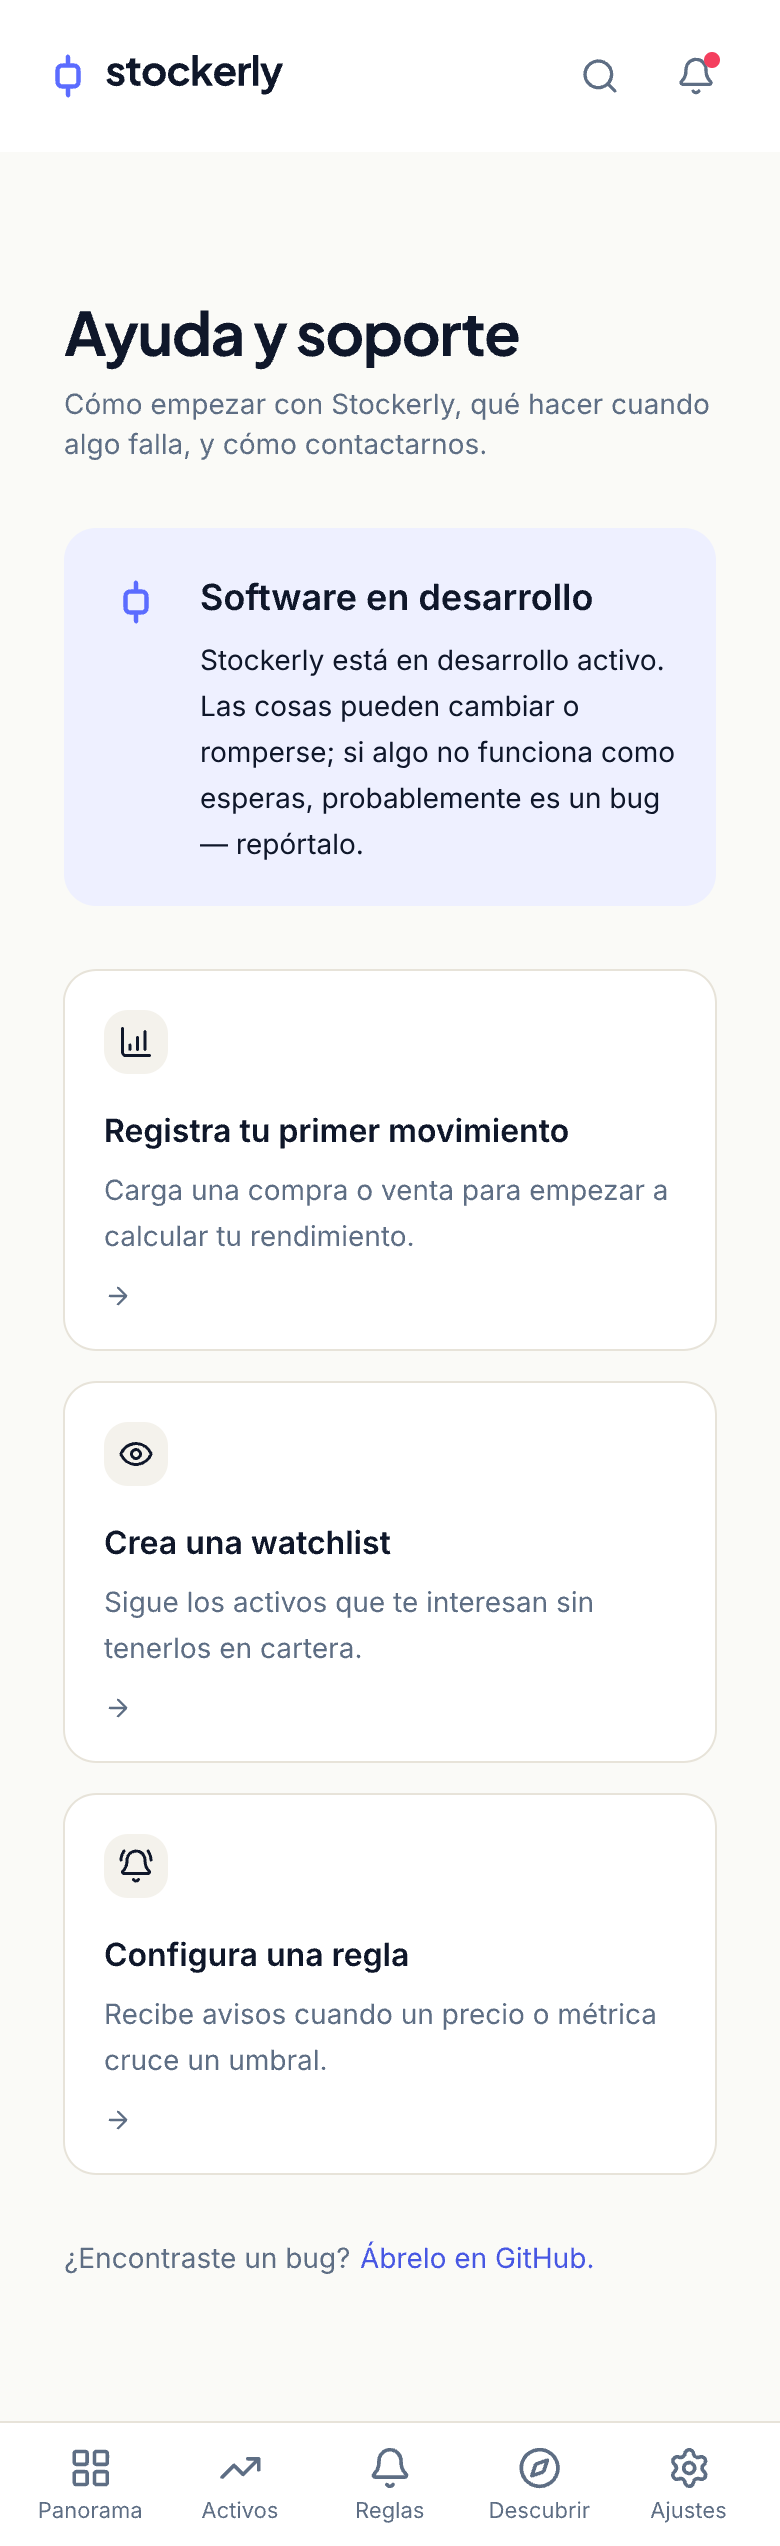
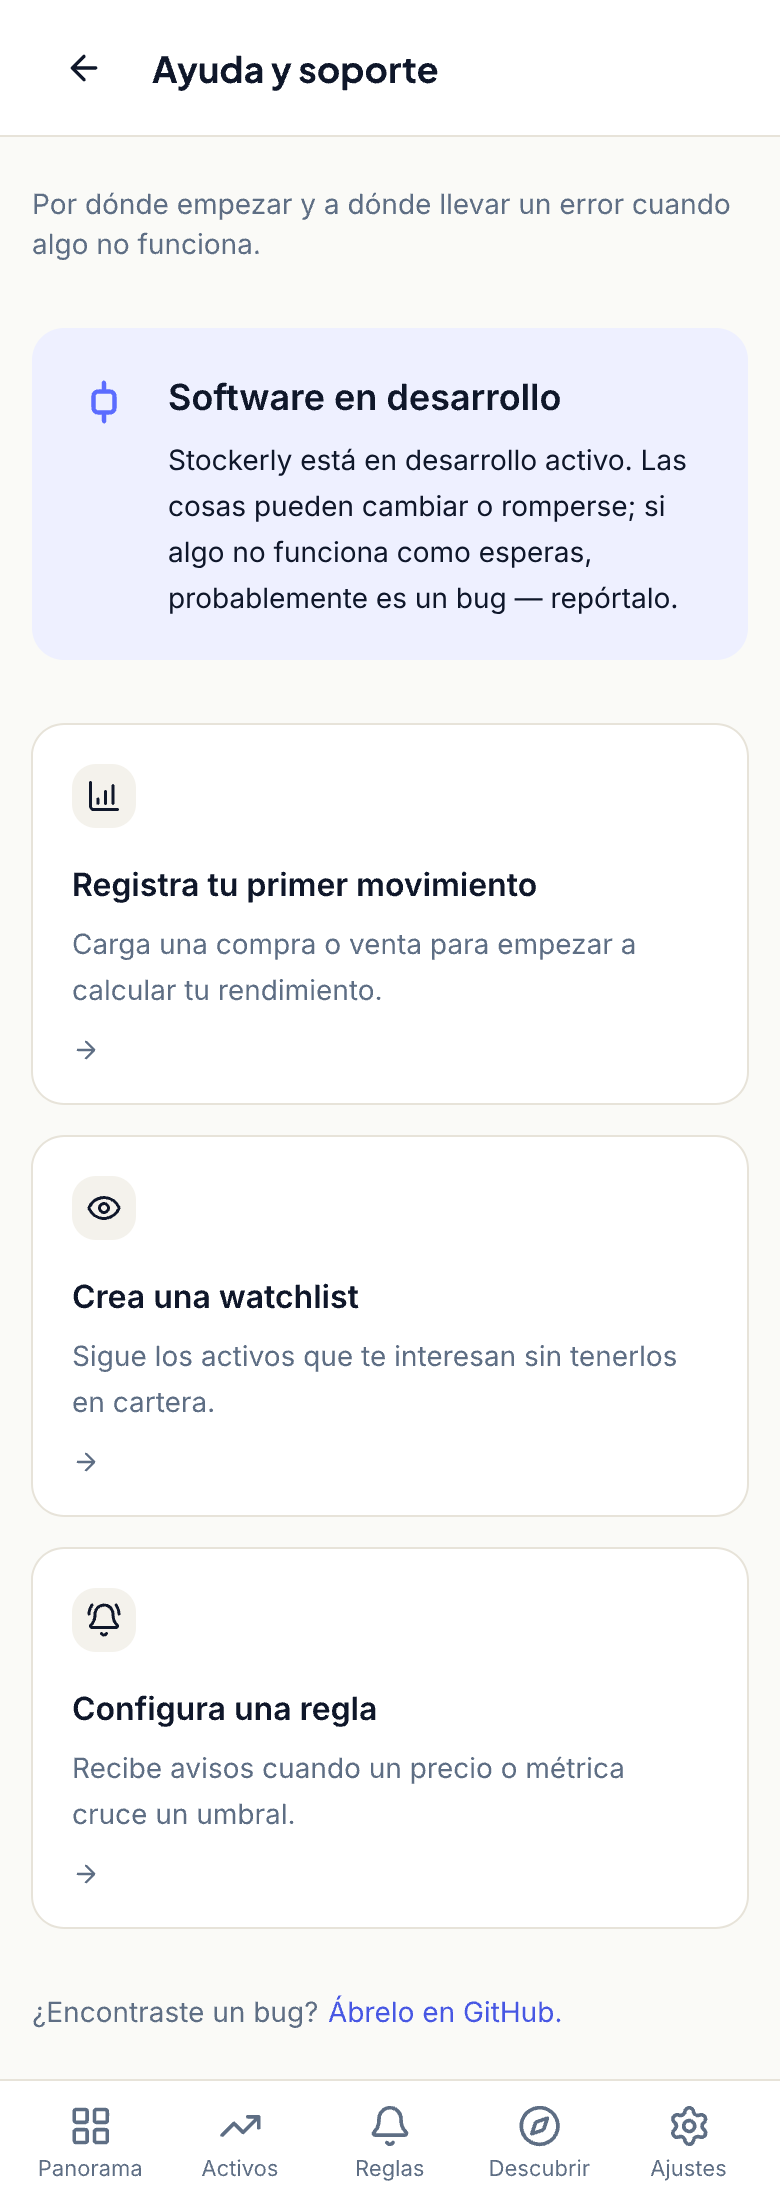
design(settings): draw Ayuda as a hub page reached from the hub (D161)

diff --git a/design/DECISIONS.md b/design/DECISIONS.md
@@ -210,7 +210,7 @@ reverses opens with `⤷` and the number that replaced it.
 | **D158** | Whether the VIX returns as an equity-sentiment card, which D38 left open on condition of its own 4-filter case (realign phase C, board draft *[feat] A market-stability gauge*) | **Proposed — awaiting Adrian: a card named *Volatilidad · EE. UU. (VIX)*, never under a Fear & Greed label.** The trigger D38 found missing now exists in his words (J6: *¿el mercado está estable?*). It is labelled for what it is: the market's own 30-day estimate for the S&P 500, with conventional bands (calma <15, normal 15–25, elevada 25–35, alta ≥35) stated in its `?`, a reading date, and the line that it says nothing about the IPC (D38's objection that half the portfolio is MXN). Absent, not calm, when the reading is older than four days (ADR-0023). It reads the `MarketIndex` VIX row the job already syncs every 10 minutes: no gateway, no table. Not on Hoy, which stays at three items; it sits with the sentiment cards. **Rejected: reusing the Fear & Greed card shape under the old title** (D38's lie) · **Putting it on Hoy** (a daily number invites reacting to it). **Cost if wrong:** one card and one query to delete. |
 | **D159** | What the asset detail puts before the chart now that the realign gave the owner a plan, dates and a position of their own (board request, 2026-10-21; D114 composed the screen, never decided *lo tuyo* against the chart) | **A · A `LO TUYO` card before the chart** · B · One strip, the chart stays the focal point | ✅ **Adrian's call, 2026-10-21: A.** One card under the price and **above the tabs**, the same for the holder and the watcher: *Tu posición* with its gain, *Pesa X% de tu patrimonio*, *Tu costo*, *Tu umbral* and the rules, *Resultados · fecha*. It absorbs `VS. TU PLAN` (D67's anchors, now first) and only draws the rows that exist; with none, no card. Drawn as `Asset · Análisis / Lo tuyo (D159)`, a copy of the real artboard. **Two defects the review found travel with it:** the *Lectura* verdict wore warning/green borders for overbought/oversold, and the analyst-target difference was green or red, both reading as buy/sell cues against R1 — they go neutral, and the target gains *Consenso publicado por <fuente> · <fecha>*. **Rejected B (a one-line strip):** it tested whether the chart can stay first (D114's focal point) with mine as a footnote; it lost on criterion 1, because at 390 px cost, gain, threshold and date do not fit one line. **What would bring it back:** Adrian says the chart is what he reads first, or a measured fold shows the chart cut by the card. **Not decided here:** where the action buttons live (still the foot), and the `Mi posición` and `CETES` artboards, which do not yet draw the card. **Cost if wrong:** one partial moves back. |
 | **D160** | How Hoy shows an earnings season, when five held companies report within two weeks and each took a row of the three (production mirror review, 2026-10-21) | **B · One row per day, the symbols joined** · A · One row per company, as before | 🟡 **Proposed; Adrian picked B in chat, 2026-10-21.** `NVDA, TSLA y META reportan resultados` · `En 2 días · jueves 22 OCT`: the unit Hoy counts is a *moment*, not a row, so a season no longer pushes CETES and the plan off the list. The title wraps like any other. Drawn as `Hoy / Temporada de resultados`, a copy of `Hoy / Default`. **Not in this entry:** merging a central-bank decision into the same day's row (it keeps its own row), and the report time of day, which no provider gives us. **Rejected A:** it tested whether each company deserves its own line; it lost because three of three slots went to one season. **What would bring it back:** a single report big enough in the patrimonio to want its own line. **Cost if wrong:** one helper. |
-| **D161** | Whether `/help` gets an artboard after all, superseding D92 (mirror audit, 2026-10-21) | **A · Draw it as shipped** · B · Keep D92's brief note | ✅ **A — Adrian asked in chat, 2026-10-21, to draw every screen that ships with no artboard, as the code renders it today.** Drawn in `settings.pen`'s `Ayuda` band. **Open, not decided here:** nothing in the app links to `help_path`, its subtitle promises content the page lacks, and it renders two `<h1>`s — wire it or retire it, then amend the artboard. |
+| **D161** | Whether `/help` gets an artboard after all, superseding D92 (mirror audit, 2026-10-21) | **A · Draw it as shipped** · B · Keep D92's brief note | ✅ **A — Adrian asked in chat, 2026-10-21, to draw every screen that ships with no artboard, as the code renders it today.** Drawn in `settings.pen`'s `Ayuda` band. **Wired, not retired (#858):** its only link died with the public footer (b859b069), so it is back as an *Ayuda* row in the Ajustes hub, rendered as a hub sub-page — one heading, a subtitle that matches the content. The artboards mirror that. |
 | **D162** | Where the owner runs a clean-up that used to need a terminal (`rake data:resolve_bmv_symbols`), and which ones (2026-10-22) | **A · A `Mantenimiento` section on Estado y mantenimiento, right after `Sincronización manual`** · B · Run them silently on every deploy · C · Document the rake tasks only | 🟡 **Proposed; Adrian chose A in chat.** Three named tasks, each a button with a line saying what it does and when it last ran: *Nombres de la BMV*, *Historiales de precio*, *Catálogo de activos*. Each is idempotent, so running it twice changes nothing. Same button style as the manual syncs; drawn in `Default` and in `Mantenimiento activo`. **Not drawn:** the state with `auto_sync_enabled` off, where *Historiales de precio* would do nothing; the code says so under that button. **Rejected B:** it tested whether a clean-up should need the owner at all; it lost because it hides what it changed. **Rejected C:** it leaves the terminal as the only way in. **What would bring B back:** a task the owner has run every week without ever reading its result. **Cost if wrong:** one section. |
 
 ## Open product questions — answered 2026-09-22
